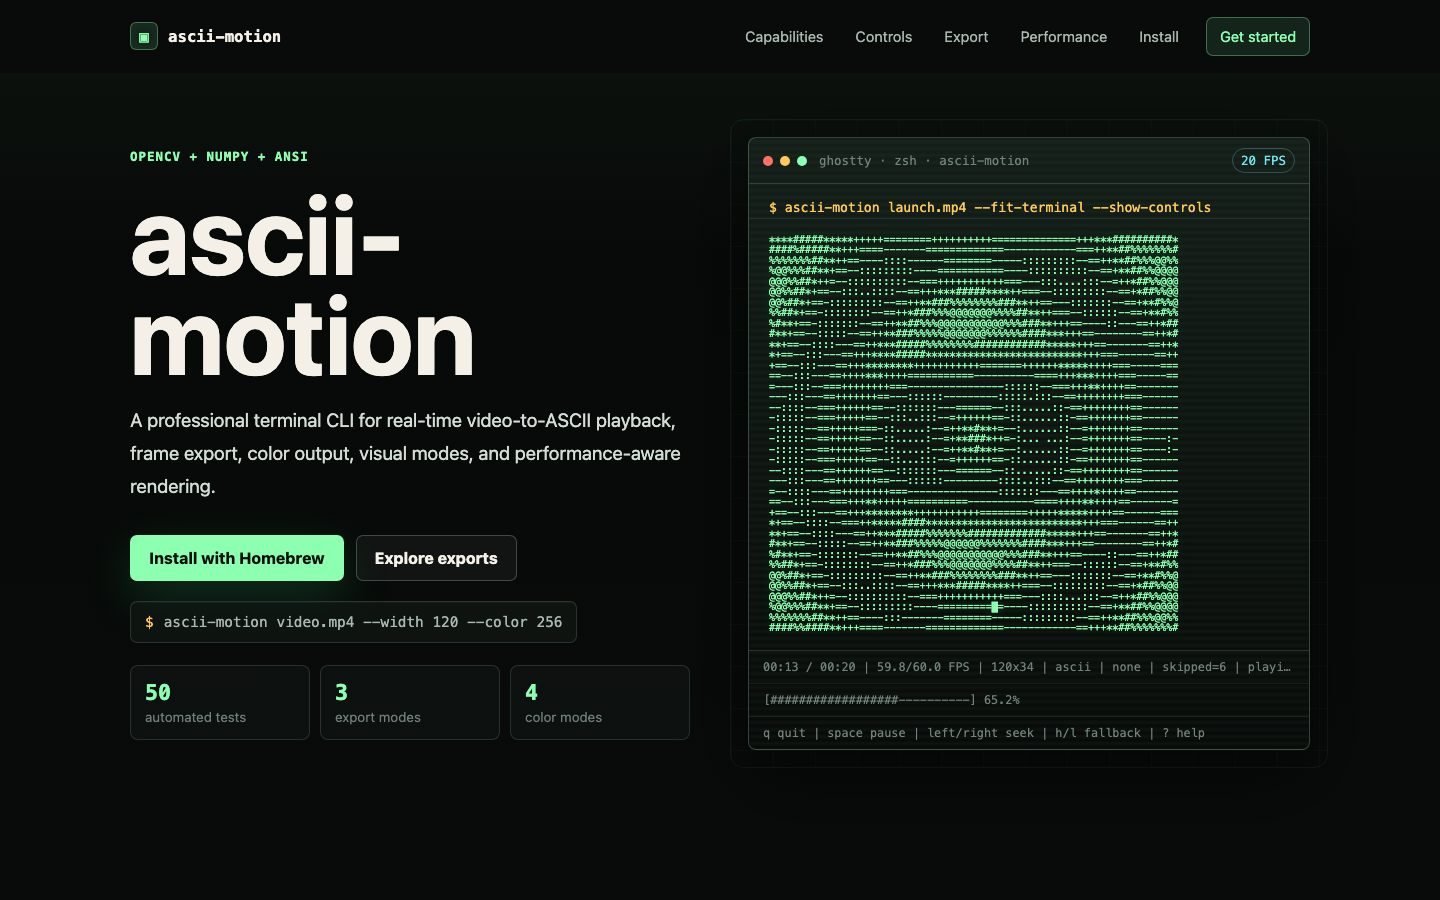
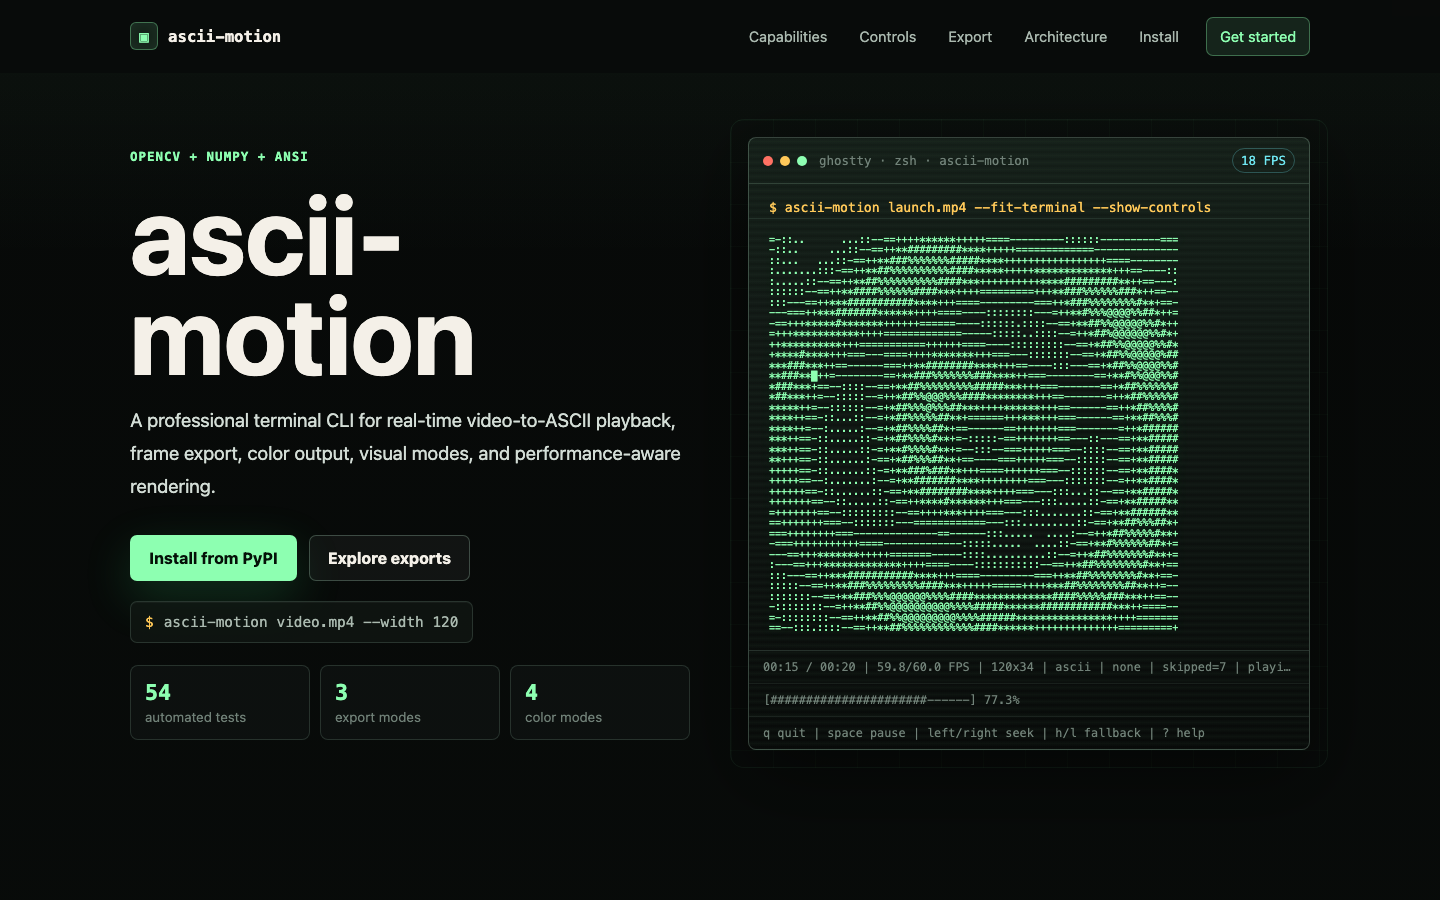
Prepare v0.2.0 portfolio launch

diff --git a/site/index.html b/site/index.html
@@ -38,7 +38,7 @@
           <a href="#capabilities">Capabilities</a>
           <a href="#controls">Controls</a>
           <a href="#export">Export</a>
-          <a href="#performance">Performance</a>
+          <a href="#architecture">Architecture</a>
           <a href="#install">Install</a>
           <a class="nav-cta" href="#install">Get started</a>
         </div>
@@ -56,16 +56,16 @@
               color output, visual modes, and performance-aware rendering.
             </p>
             <div class="hero-actions" aria-label="Primary actions">
-              <a class="button button-primary" href="#install">Install with Homebrew</a>
+              <a class="button button-primary" href="#install">Install from PyPI</a>
               <a class="button button-ghost" href="#export">Explore exports</a>
             </div>
             <div class="command-pill" aria-label="Quick start command">
               <span class="prompt">$</span>
-              <code>ascii-motion video.mp4 --width 120 --color 256</code>
+              <code>ascii-motion video.mp4 --width 120</code>
             </div>
             <dl class="hero-stats" aria-label="Project highlights">
               <div>
-                <dt>50</dt>
+                <dt>54</dt>
                 <dd>automated tests</dd>
               </div>
               <div>
@@ -155,10 +155,10 @@
           </article>
           <article class="feature-card reveal">
             <span class="feature-kicker">Packaging</span>
-            <h3>Homebrew-ready CLI</h3>
+            <h3>PyPI and Homebrew-ready CLI</h3>
             <p>
-              Install from a tap, run as `ascii-motion`, or use `python -m ascii_motion` during
-              development.
+              Install with pipx, PyPI, or Homebrew, run as `ascii-motion`, or use
+              `python -m ascii_motion` during development.
             </p>
           </article>
         </div>
@@ -215,10 +215,14 @@
         </div>
       </section>
 
-      <section class="pipeline-section section-band" id="performance" aria-labelledby="pipeline-title">
+      <section class="pipeline-section section-band" id="architecture" aria-labelledby="pipeline-title">
         <div class="section-heading reveal">
-          <p class="eyebrow">Pipeline</p>
-          <h2 id="pipeline-title">A tight loop with explicit performance boundaries.</h2>
+          <p class="eyebrow">Architecture</p>
+          <h2 id="pipeline-title">A terminal media pipeline with explicit performance boundaries.</h2>
+          <p>
+            Capture, processing, pacing, keyboard control, and ANSI output are separated so the
+            project can grow without turning the playback loop into a monolith.
+          </p>
         </div>
         <div class="pipeline reveal" aria-label="Processing pipeline">
           <span>VideoCapture</span>
@@ -245,6 +249,32 @@
             <span>optional frame skipping keeps playback aligned with wall-clock time</span>
           </article>
         </div>
+        <div class="engineering-grid">
+          <article class="engineering-note reveal">
+            <span>01</span>
+            <h3>Vectorized processing</h3>
+            <p>
+              NumPy maps luminance, edges, dithering, and ASCII lookup across full matrices. Python
+              only joins completed rows for terminal output.
+            </p>
+          </article>
+          <article class="engineering-note reveal">
+            <span>02</span>
+            <h3>No-flicker terminal rendering</h3>
+            <p>
+              Frames use cursor-home ANSI sequences and clear-line suffixes instead of full-screen
+              clears, keeping playback stable and avoiding scrollback spam.
+            </p>
+          </article>
+          <article class="engineering-note reveal">
+            <span>03</span>
+            <h3>Wall-clock pacing</h3>
+            <p>
+              The clock targets accumulated frame deadlines and skips late frames by default when
+              terminal throughput cannot keep up.
+            </p>
+          </article>
+        </div>
       </section>
 
       <section class="install-section section-band" id="install" aria-labelledby="install-title">
@@ -253,12 +283,13 @@
             <p class="eyebrow">Install</p>
             <h2 id="install-title">Launch from a real terminal.</h2>
             <p>
-              Install with Homebrew for normal use, or install the Python package in editable mode
-              when developing the CLI.
+              Install from PyPI or Homebrew for normal use, or install the Python package in
+              editable mode when developing the CLI.
             </p>
           </div>
           <div class="install-commands" aria-label="Installation commands">
-            <pre><code>brew install c4rl0s04/ascii-motion/ascii-motion
+            <pre><code>pipx install ascii-motion
+brew install c4rl0s04/ascii-motion/ascii-motion
 
 ascii-motion video.mp4 --width 120
 ascii-motion video.mp4 --mode hybrid --dither ordered
@@ -280,7 +311,7 @@ ascii-motion video.mp4 --export-ansi demo.ans --color 256</code></pre>
         <a href="#capabilities">Capabilities</a>
         <a href="#controls">Controls</a>
         <a href="#export">Export</a>
-        <a href="#performance">Performance</a>
+        <a href="#architecture">Architecture</a>
         <a href="#install">Install</a>
       </div>
     </footer>

diff --git a/site/styles.css b/site/styles.css
@@ -221,6 +221,7 @@ select {
 .terminal-window,
 .feature-card,
 .command-card,
+.engineering-note,
 .metric,
 .install-card,
 .install-commands {
@@ -278,6 +279,7 @@ p {
   max-width: 640px;
   color: #d3ddd6;
   font-size: 1.18rem;
+  overflow-wrap: anywhere;
 }
 
 .hero-stats {
@@ -319,6 +321,7 @@ p {
   display: inline-flex;
   align-items: center;
   justify-content: center;
+  text-align: center;
   min-height: 46px;
   border-radius: 7px;
   padding: 0 18px;
@@ -364,10 +367,14 @@ p {
 
 .command-pill code,
 .code-line code {
+  min-width: 0;
   overflow-wrap: anywhere;
+  white-space: normal;
+  word-break: break-word;
 }
 
 .prompt {
+  flex: 0 0 auto;
   color: var(--amber);
 }
 
@@ -530,6 +537,7 @@ p {
 
 .feature-card,
 .metric,
+.engineering-note,
 .command-card,
 .install-card {
   border: 1px solid var(--line);
@@ -673,6 +681,30 @@ kbd {
   margin-top: 18px;
 }
 
+.engineering-grid {
+  display: grid;
+  grid-template-columns: repeat(auto-fit, minmax(min(100%, 300px), 1fr));
+  gap: 16px;
+  margin-top: 18px;
+}
+
+.engineering-note {
+  padding: 22px;
+}
+
+.engineering-note span {
+  display: inline-block;
+  margin-bottom: 22px;
+  color: var(--amber);
+  font-family: var(--mono);
+  font-weight: 800;
+}
+
+.engineering-note p {
+  margin-bottom: 0;
+  font-size: 0.94rem;
+}
+
 .metric {
   padding: 22px;
 }
@@ -782,6 +814,7 @@ kbd {
 
   .capability-grid,
   .metrics-grid,
+  .engineering-grid,
   .command-grid {
     grid-template-columns: 1fr;
   }
@@ -801,10 +834,14 @@ kbd {
   .nav-shell,
   .section-band,
   .site-footer {
-    width: min(100vw - 28px, 1180px);
+    width: min(calc(100vw - 28px), 1180px);
   }
 
   .nav-toggle {
+    position: fixed;
+    top: 15px;
+    right: 14px;
+    z-index: 70;
     display: block;
   }
 
@@ -870,8 +907,12 @@ kbd {
     font-size: 0.8rem;
   }
 
+  .hero-lede {
+    font-size: 1.05rem;
+  }
+
   .hero-stats {
-    grid-template-columns: repeat(3, minmax(0, 1fr));
+    grid-template-columns: 1fr;
     gap: 8px;
   }
 

diff --git a/ascii_motion/__init__.py b/ascii_motion/__init__.py
@@ -1,3 +1,3 @@
 """ASCII video playback for ANSI terminals."""
 
-__version__ = "0.1.1"
+__version__ = "0.2.0"

diff --git a/README.md b/README.md
@@ -31,6 +31,18 @@ Mobile view:
 
 ## Installation
 
+Install from PyPI:
+
+```bash
+pip install ascii-motion
+```
+
+For isolated CLI usage, `pipx` is recommended:
+
+```bash
+pipx install ascii-motion
+```
+
 Install with Homebrew on macOS:
 
 ```bash
@@ -263,6 +275,13 @@ Workflow: release.yml
 Environment: pypi
 ```
 
+After the release workflow succeeds, verify the published package from a clean environment:
+
+```bash
+pipx install ascii-motion
+ascii-motion --version
+```
+
 ## Technical Pipeline
 
 ```text
@@ -276,6 +295,18 @@ Y = 0.2126R + 0.7152G + 0.0722B
 ```
 
 OpenCV provides frames in BGR order, so the processor reads `R` from channel `2`, `G` from channel `1`, and `B` from channel `0`.
+
+## Engineering Notes
+
+`ascii-motion` is structured as a terminal media pipeline rather than a frame-by-frame print script. OpenCV owns source capture and seeking, `FrameProcessor` owns vectorized image transforms, and `TerminalRenderer` owns ANSI terminal state. This keeps future processor backends isolated from playback and output concerns.
+
+The core luminance and character mapping path is vectorized with NumPy over full frame matrices. Python does not iterate pixel by pixel; it only assembles the final character rows after the lookup table has produced the ASCII matrix.
+
+Rendering avoids full-screen clears during playback. Each frame is emitted with a cursor-home sequence and clear-to-end-of-line suffixes, which prevents scrollback spam and stale HUD text while reducing flicker in modern ANSI terminals.
+
+Frame pacing is based on accumulated wall-clock targets instead of sleeping a fixed amount after each frame. When rendering falls behind, default playback skips late source frames to keep the ASCII output close to the original video duration. `--no-frame-skip` switches to completeness over timing.
+
+Export modes reuse the same processing path as playback. Snapshot, plain text animation, ANSI animation, and numbered frame exports are non-interactive stdout/file workflows, so they do not enter alternate screen or keyboard-control mode.
 
 ## Performance Notes
 
@@ -292,6 +323,20 @@ To measure the pipeline:
 ```bash
 ascii-motion video.mp4 --width 120 --benchmark
 ```
+
+## Terminal Compatibility
+
+Compatibility depends on ANSI support, terminal throughput, font metrics, and keyboard escape handling. Current status:
+
+| Terminal | ANSI render | Truecolor | Alternate screen | Keyboard controls | Notes |
+| --- | --- | --- | --- | --- | --- |
+| Ghostty | tested | tested | tested | tested | Best current validation target for high-FPS playback. |
+| iTerm2 | expected | expected | expected | expected | Modern ANSI support; still needs a full local pass. |
+| Terminal.app | expected | expected | expected | expected | Works for standard ANSI paths; high widths may be slower. |
+| Alacritty | expected | expected | expected | expected | Good fit for fast rendering; needs validation. |
+| WezTerm | expected | expected | expected | expected | Good fit for truecolor and alternate screen; needs validation. |
+| VS Code terminal | expected | expected | expected | expected | Useful for development, but terminal throughput may vary. |
+| tmux | needs validation | needs validation | needs validation | needs validation | Depends on tmux terminal-overrides and truecolor config. |
 
 ## Recommended Manual Validation
 
